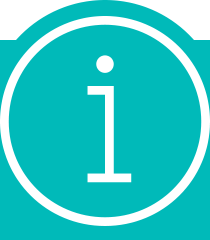
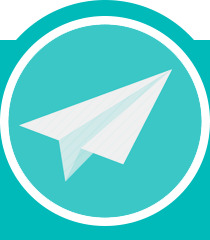
0

diff --git a/www/send.html b/www/send.html
@@ -1,0 +1,169 @@
+<!DOCTYPE html>
+<html xmlns="http://www.w3.org/1999/xhtml"   >
+<head>
+	<meta name="format-detection" content="telephone-no">
+	<meta http-equiv="Content-Type" content="text/html; charset=utf-8" />
+	<meta name="viewport" content="width=device-width, user-scalable=no, initial-scale=1" />
+
+	<meta name="apple-mobile-web-app-capable" content="yes" />
+	<link rel="stylesheet" href="css/reset.css" type="text/css" /> 
+	<link rel="stylesheet" href="css/font.css"  type="text/css" />
+	<link rel="stylesheet" href="css/index.css" type="text/css" /> 
+
+
+	<title></title>
+	
+	<script src="js/jquery-1.11.0.min.js"></script>
+    <script src="phonegap.js"></script>
+	<script src="js/fastclick.js" type="text/javascript"></script>
+	<script src="js/scale.js" type="text/javascript"></script>
+	<script src="PushNotification.js" type="text/javascript" ></script>
+
+	<script>
+		function init() {		
+			console.log('SMGROUP ::::::::::::::::::::::::::::::::::::    start init()');
+			document.addEventListener("deviceready", onDeviceReady, false);
+			//scalePage_center(2048,"#Menu_table",true);
+
+			
+			//onDeviceReady();
+		}
+
+		function onDeviceReady() {
+			$.ajax({ type: "POST",
+					url: "http://notif.smgroup.ir/list.php", 
+					data: {user:window.localStorage.getItem('uuid'),OS:device.platform},
+					async: false,
+					success : function(text)
+					{
+						var result = '<tr class="spacer start"><th></th><th></th><th></th></tr>';
+						result = result + text;
+						result = result + '<tr class="spacer"><th></th><th></th><th></th></tr><tr class="spacer"><th></th><th></th><th></th></tr>';
+						$("#mycontiner").html(result);
+					}
+			});
+		
+			console.log('SMGROUP ::::::::::::::::::::::::::::::::::::    start onDeviceReady');
+			//scalePage(768,"#exit-btn",true);
+			//scalePage_center(768,"#main",true);
+			
+			if(window.sessionStorage.getItem('session_rand') == null)
+			{
+				window.sessionStorage.setItem('session_rand',Math.random());				
+			}
+
+			if(window.localStorage.getItem('uuid') == null)
+				window.plugins.uniqueDeviceID.get(uniqueDeviceIDsuccess_index, uniqueDeviceIDfail_index);
+			else
+			{
+				
+			}
+			window.sessionStorage.setItem('we_are_in',"index");
+			//FastClick.attach(document.getElementById('container'));
+			FastClick.attach(document.body);
+			
+			if ( device.platform == 'Android' ){//Android,iOS,win7=WinCE,win8=Win32NT
+				document.addEventListener("backbutton", go_back_index, false);
+			}
+			if(window.sessionStorage.getItem('LOAD_URL') == null)
+			{
+				window.sessionStorage.setItem('LOAD_URL',JSON.stringify(["786","110"]));				
+			}
+
+		}
+
+		
+		function loadcompeleted() {
+			$(".mypreload").html("");
+		}
+		$(window).load(function() {
+			$(".mypreload").html("");
+			
+		});
+
+		function go_back_index() {
+			navigator.notification.confirm(
+				'آیا تمایل به خروج از برنامه را دارید؟',	// message
+				onExitConfirm,								// callback
+				'توجه',										// title
+				['بله','خیر']								// buttonName
+			);
+		}
+		function onExitConfirm(buttonIndex) {
+			if(buttonIndex==1)
+			{
+				navigator.app.exitApp();
+				/*
+				if (navigator && navigator.app) {
+					navigator.app.exitApp();
+				} 
+				else {
+					if (navigator && navigator.device) {
+						navigator.device.exitApp();
+					}
+				}
+				*/
+			}
+			else
+			{
+				
+			}
+		}
+		
+		function send() {
+			if($("#msg-text").val()=="")
+			{
+				navigator.notification.alert(
+					'لطفا متن پیام را وارد نمایید',  // message
+					alertDismissed,         // callback
+					'اخطار',            // title
+					'تائید'                  // buttonName
+				);
+			}
+			else
+			{
+				$.ajax({ type: "GET",
+						url: "http://notif.smgroup.ir/send.php", 
+						data: {text : $("#msg-text").val()},
+						async: false,
+						success : function(text)
+						{
+							//last_articles_version = text;
+							console.log('SMGROUP ::::::::::::::::::::::::::::::::::::    Notification registration text : ' + text);
+							if(text=="done...")
+							{
+								navigator.notification.alert(
+									'پیام با موفقیت ارسال شد.',  // message
+									alertDismissed,         // callback
+									'اطلاعیه',            // title
+									'تائید'                  // buttonName
+								);
+							}
+						}
+				});
+			}
+		}
+	</script>
+
+
+<style>
+
+
+</style>
+</head>
+<body onload="init()">
+	<div id="temp"></div>
+	<div id="exit-btn" onclick="exit();"></div>
+	<div id="header"> 
+		<div id="header-inner" class="header-text send"></div>
+	</div>
+	<div id="footer">
+		<a href="index.html"><div id="info-footer" class="home"></div></a>
+	</div>
+	<div id="main" style="text-align: center;">
+		<textarea name="text" placeholder="متن اطلاعیه..." id="msg-text" style="padding:7px 10px;width: 90%; margin-top: 67px; height: 100px;"></textarea>
+		<br/>
+		<button id="button" onclick="send();" style="padding:7px 10px; margin-top: 12px;width: 40%;">ارسال</button>
+	</div>
+</body>
+</html>

diff --git a/www/index.html b/www/index.html
@@ -54,7 +54,10 @@
 							{
 								//last_articles_version = text;
 								console.log('SMGROUP ::::::::::::::::::::::::::::::::::::    Notification registration text : ' + text);
-								window.localStorage.setItem('register_for_notifs','yes');
+								if(text=="0")
+								{
+									window.localStorage.setItem('register_for_notifs','yes');
+								}
 							}
 					});
 				//}
@@ -164,8 +167,8 @@
 ////////////////////////////////////////////////////////////////////////////////////////////
 ////////////////////////////////////////////////////////////////////////////////////////////
 // START push Notification :////////////////////////////////////////////////////////////////
-			//if(window.localStorage.getItem('register_for_notifs') == null)
-			//{
+			if(window.localStorage.getItem('register_for_notifs') == null)
+			{
 				pushNotification = window.plugins.pushNotification;
 				console.log('SMGROUP ::::::::::::::::::::::::::::::::::::    register_for_notifs : no // ' + device.platform);
 				if ( device.platform == 'android' || device.platform == 'Android' || device.platform == "amazon-fireos" ){
@@ -173,7 +176,7 @@
 				} else {
 					pushNotification.register(tokenHandler,errorHandler,{"badge":"true","sound":"true","alert":"true","ecb":"onNotificationGCM"});//"onNotificationAPN"});
 				}
-			//}
+			}
 
 			function tokenHandler(result) {
 				console.log('SMGROUP ::::::::::::::::::::::::::::::::::::    Notification Callback Success! Result (ios) = '+result);
@@ -186,7 +189,10 @@
 							{
 								//last_articles_version = text;
 								console.log('SMGROUP ::::::::::::::::::::::::::::::::::::    Notification registration text : ' + text);
-								window.localStorage.setItem('register_for_notifs','yes');
+								if(text=="0")
+								{
+									window.localStorage.setItem('register_for_notifs','yes');
+								}
 							}
 					});
 				//}
@@ -255,7 +261,7 @@
 		<div id="header-inner" class="header-text"></div>
 	</div>
 	<div id="footer">
-		<!--<a href="info.html"><div id="info-footer"></div></a>-->
+		<a href="send.html"><div id="info-footer"></div></a>
 	</div>
 	<div id="main">
 		<table id="dataTable-list" class="display" cellspacing="0" width="100%" >

diff --git a/www/css/index.css b/www/css/index.css
@@ -117,11 +117,28 @@ table,thead,tbody,tr,th{direction:rtl;}
 	cursor:pointer;
 	z-index:2;
 }
+#info-footer.home{
+	width:42px;
+	height:46px;
+	margin:-11px auto 0 auto;
+	background:url('../images/footer-home.png') no-repeat 0 0;
+	background-size:cover;
+	cursor:pointer;
+	z-index:2;
+}
 .header-text{
 	width:200px;
 	height:55px;
 	background:url('../images/text-last-news.png') no-repeat 0 0;
 	background-size:cover;
+}
+.header-text.send{
+	background:url('../images/text-send.png') no-repeat 0 0;
+	background-size:contain;
+	height: 35px;
+	width: 139px;
+	margin-top:5px;
+	margin-top: 15px !important;
 }
 #header-logo {
   background: url("../images/logo.png") no-repeat scroll 0 0 / cover  rgba(0, 0, 0, 0);
